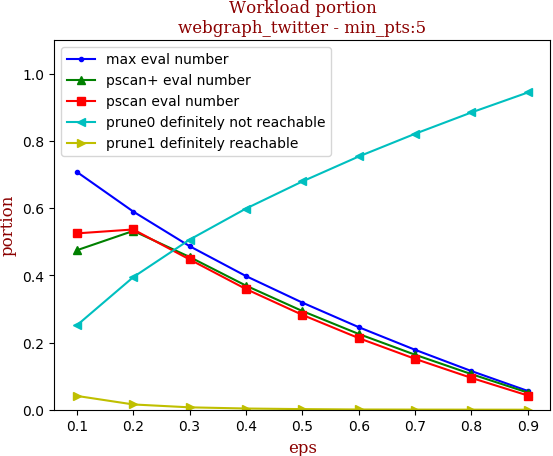
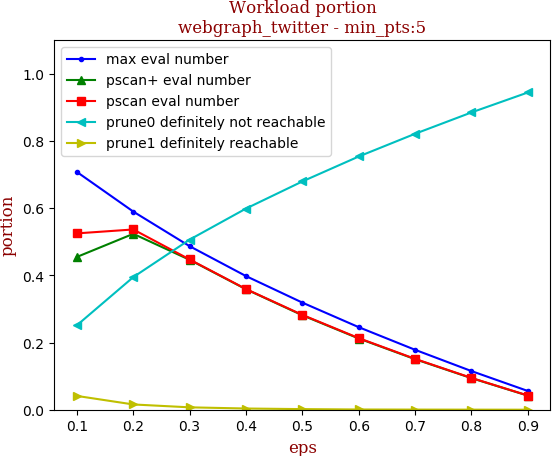
add twitter workload exp data

diff --git a/python_experiments/workload_figure.py b/python_experiments/workload_figure.py
@@ -226,7 +226,8 @@ if __name__ == '__main__':
     data_set_lst = ['small_snap_dblp',
                     'snap_pokec', 'snap_livejournal', 'snap_orkut',
                     'webgraph_uk', 'webgraph_webbase',
-                    # 'webgraph_twitter', 'snap_friendster',
+                    'webgraph_twitter',
+                    #  'snap_friendster',
                     '10million_avgdeg15_maxdeg50_Cdefault'
                     ]
 

diff --git a/python_experiments/case_studies/figures-case-study7-workload-efficient-1/ReadMe.md b/python_experiments/case_studies/figures-case-study7-workload-efficient-1/ReadMe.md
@@ -94,6 +94,22 @@ pscan+ eval number | 0.205 | 0.255 | 0.264 | 0.238 | 0.206 | 0.166 | 0.132 | 0.0
 serial pscan runtime | 128.419 | 82.260 | 63.901 | 53.046 | 44.723 | 37.384 | 31.637 | 25.309 | 20.048
 serial pscan+ runtime | 71.797 | 53.503 | 45.087 | 40.442 | 35.339 | 30.933 | 27.487 | 23.294 | 19.387
 
+## webgraph_twitter
+
+workload | runtime
+--- | ---
+![webgraph_twitter-workload](../../figures/workload-efficient/webgraph_twitter-min_pts:5-workload.png) | ![webgraph_twitter-runtime](../../figures/workload-efficient/webgraph_twitter-min_pts:5-runtime.png)
+
+tag | eps-0.1 | eps-0.2 | eps-0.3 | eps-0.4 | eps-0.5 | eps-0.6 | eps-0.7 | eps-0.8 | eps-0.9
+--- | --- | --- | --- | --- | --- | --- | --- | --- | ---
+prune0 definitely not reachable | 0.251 | 0.395 | 0.506 | 0.599 | 0.679 | 0.754 | 0.821 | 0.885 | 0.944
+prune1 definitely reachable | 0.041 | 0.016 | 0.007 | 0.004 | 0.002 | 0.001 | 0.000 | 0.000 | 0.000
+max eval number | 0.708 | 0.590 | 0.487 | 0.398 | 0.319 | 0.246 | 0.178 | 0.115 | 0.056
+pscan eval number | 0.525 | 0.536 | 0.447 | 0.359 | 0.282 | 0.213 | 0.151 | 0.095 | 0.042
+pscan+ eval number | 0.455 | 0.523 | 0.446 | 0.358 | 0.281 | 0.212 | 0.150 | 0.094 | 0.042
+serial pscan runtime | 2311.507 | 2973.190 | 2485.840 | 1714.214 | 1110.610 | 671.768 | 375.464 | 182.999 | 61.469
+serial pscan+ runtime | 1071.112 | 1993.220 | 1830.713 | 1299.356 | 840.775 | 504.277 | 279.642 | 138.720 | 48.351
+
 ## 10million_avgdeg15_maxdeg50_Cdefault
 
 workload | runtime
